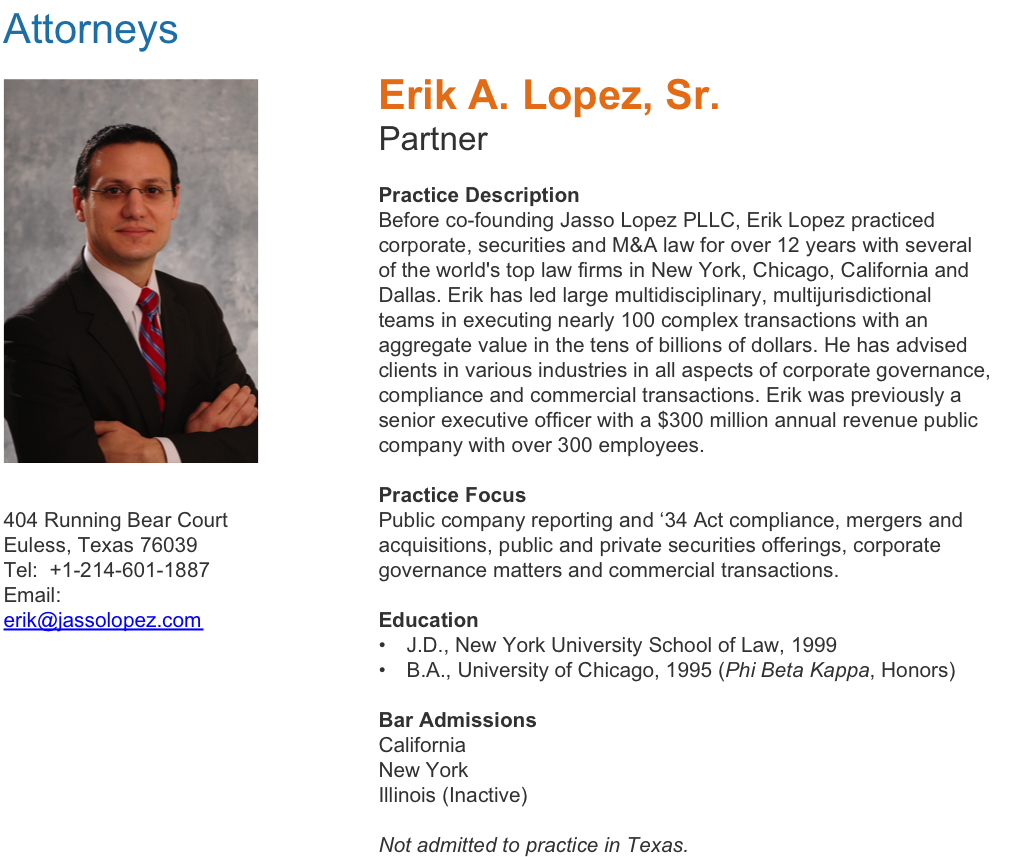
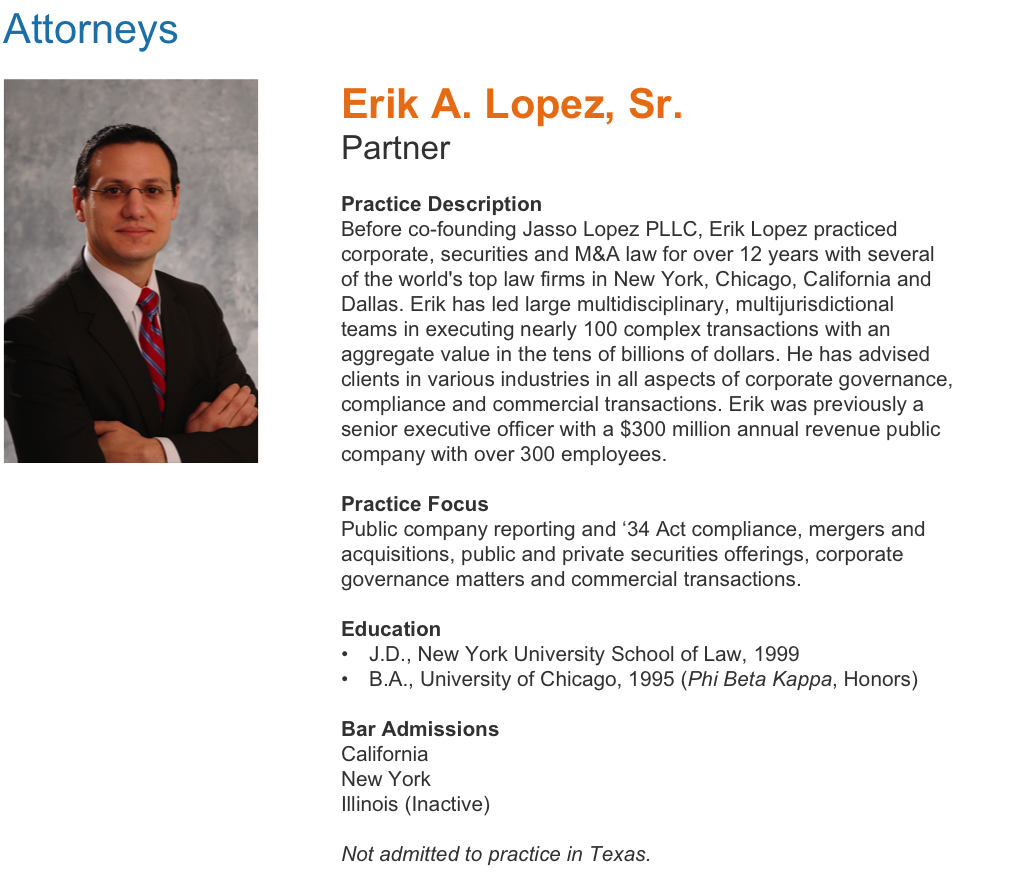
client changes

diff --git a/style.css b/style.css
@@ -118,6 +118,7 @@ padding-right:14px;
 }
 #contactmargin {
 margin-top: 8px;
+margin-left: -12px;
 }
 #fltleft {
 float: left;
@@ -177,4 +178,11 @@ div#text_left {
 }
 div.leftme {
 	padding-left: 92px;
+}
+#attorney_contactInfo{
+	font: helvetica;
+	font-size: 1.01em;
+	position: absolute;
+	margin-top: 380px;
+	margin-left: 100px;
 }

diff --git a/attorneys_nicole.php b/attorneys_nicole.php
@@ -49,8 +49,7 @@ function theshow() {
 	</div>
 	<span id="hideshow">
 	<div id="linkbar">
-	<a href="attorneys_erik.php" onMouseOver=document.getElementById("foo").style.color="#ea8018"; onMouseout=document.getElementById("foo").style.color="#FFF"; id="foo">Erik A. Lopez, Sr.</a>
-	<a href="attorneys_nicole.php" onMouseOver=document.getElementById("bar").style.color="#ea8018"; onMouseout=document.getElementById("bar").style.color="#FFF"; id="bar">|&nbsp;&nbsp;&nbsp;Nicole Jasso Lopez</a>
+	<?php include 'attorney_dropdown.php' ?>
 	</div>
 	</span>
 	
@@ -58,7 +57,13 @@ function theshow() {
 <div class="clear"></div>
 <div class="grid_24" style="margin-top:20px;">
 	<br>
-<center><img src="images/nicole_bio.png" width="730" height="604"></center>
+	<div id="attorney_contactInfo">
+	404 Running Bear Court<br>
+	Euless, Texas 76039<br>
+	Tel:  +1-214-601-6304<br>
+	Email: nicole@jassolopez.com<br>
+	</div>
+	<center><img src="images/nicole_bio.png" width="730" height="604"></center>
 </div>
 <div class="clear"></div>
 <div class="grid_20 prefix_1">

diff --git a/legal_notices.php b/legal_notices.php
@@ -49,8 +49,7 @@ function theshow() {
 	</div>
 	<span id="hideshow">
 	<div id="linkbar">
-	<a href="attorneys_erik.php" onMouseOver=document.getElementById("foo").style.color="#ea8018"; onMouseout=document.getElementById("foo").style.color="#FFF"; id="foo">Erik A. Lopez, Sr.</a>
-	<a href="attorneys_nicole.php" onMouseOver=document.getElementById("bar").style.color="#ea8018"; onMouseout=document.getElementById("bar").style.color="#FFF"; id="bar">|&nbsp;&nbsp;&nbsp;Nicole Jasso Lopez</a>
+	<?php include 'attorney_dropdown.php' ?>
 	</div>
 	</span>
 	
@@ -58,11 +57,11 @@ function theshow() {
 <div class="clear"></div>
 <div class="grid_24" style="margin-top:20px;">
 	<br><br>
-<center><img src="images/bottle_gun.png" width="790"></center>
+<center><img src="images/bottle_gun.png" width="730"></center>
 </div>
 <div class="clear"></div>
 <div class="grid_20 prefix_1">
-	<br><br><br><br>
+	<br><br><br><br><br><br><br><br>
 <div id="floatleft">
  &copy; Jasso Lopez PLLC – A boutique law firm offering corporate, securities and M&A services
 </div>

diff --git a/attorneys_erik.php b/attorneys_erik.php
@@ -49,8 +49,7 @@ function theshow() {
 	</div>
 	<span id="hideshow">
 	<div id="linkbar">
-	<a href="attorneys_erik.php" onMouseOver=document.getElementById("foo").style.color="#ea8018"; onMouseout=document.getElementById("foo").style.color="#FFF"; id="foo">Erik A. Lopez, Sr.</a>
-	<a href="attorneys_nicole.php" onMouseOver=document.getElementById("bar").style.color="#ea8018"; onMouseout=document.getElementById("bar").style.color="#FFF"; id="bar">|&nbsp;&nbsp;&nbsp;Nicole Jasso Lopez</a>
+		<?php include 'attorney_dropdown.php' ?>
 	</div>
 	</span>
 	
@@ -58,7 +57,13 @@ function theshow() {
 <div class="clear"></div>
 <div class="grid_24" style="margin-top:20px;">
 	<br>
-<center><img src="images/erik_bio.png" width="730" height="608"></center>
+	<div id="attorney_contactInfo">
+	404 Running Bear Court<br>
+	Euless, Texas 76039<br>
+	Tel:  +1-214-601-1887<br>
+	Email: erik@jassolopez.com<br>
+	</div>
+	<center><img src="images/erik_bio.png" width="730" height="608"></center>
 </div>
 <div class="clear"></div>
 <div class="grid_20 prefix_1">

diff --git a/contact_us.php b/contact_us.php
@@ -50,8 +50,7 @@ function theshow() {
 	</div>
 	<span id="hideshow">
 	<div id="linkbar">
-	<a href="attorneys_erik.php" onMouseOver=document.getElementById("foo").style.color="#ea8018"; onMouseout=document.getElementById("foo").style.color="#FFF"; id="foo">Erik A. Lopez, Sr.</a>
-	<a href="attorneys_nicole.php" onMouseOver=document.getElementById("bar").style.color="#ea8018"; onMouseout=document.getElementById("bar").style.color="#FFF"; id="bar">|&nbsp;&nbsp;&nbsp;Nicole Jasso Lopez</a>
+	<?php include 'attorney_dropdown.php' ?>
 	</div>
 	</span>
 	

diff --git a/index.php b/index.php
@@ -49,8 +49,7 @@ function theshow() {
 	</div>
 	<span id="hideshow">
 	<div id="linkbar">
-	<a href="attorneys_erik.php" onMouseOver=document.getElementById("foo").style.color="#ea8018"; onMouseout=document.getElementById("foo").style.color="#FFF"; id="foo">Erik A. Lopez, Sr.</a>
-	<a href="attorneys_nicole.php" onMouseOver=document.getElementById("bar").style.color="#ea8018"; onMouseout=document.getElementById("bar").style.color="#FFF"; id="bar">|&nbsp;&nbsp;&nbsp;Nicole Jasso Lopez</a>
+	<?php include 'attorney_dropdown.php' ?>
 	</div>
 	</span>
 	

diff --git a/feedback.php b/feedback.php
@@ -51,7 +51,7 @@
 $mailto = 'erik@jassolopez.com' ;
 $subject = "contact from jassolopezlaw com" ;
 $formurl = "contact_us.php" ;
-$thankyouurl = "index.php" ;
+$thankyouurl = "thankyou.php" ;
 $errorurl = "index.php" ;
 
 $email_is_required = 1;

diff --git a/send_form_email.php b/send_form_email.php
@@ -2,7 +2,7 @@
 if(isset($_POST['email'])) {
      
     // EDIT THE 2 LINES BELOW AS REQUIRED
-    $email_to = "jason.hejna@gmail.com";
+    $email_to = "erik@jassolopez.com";
     $email_subject = "Your email subject line";
      
      
